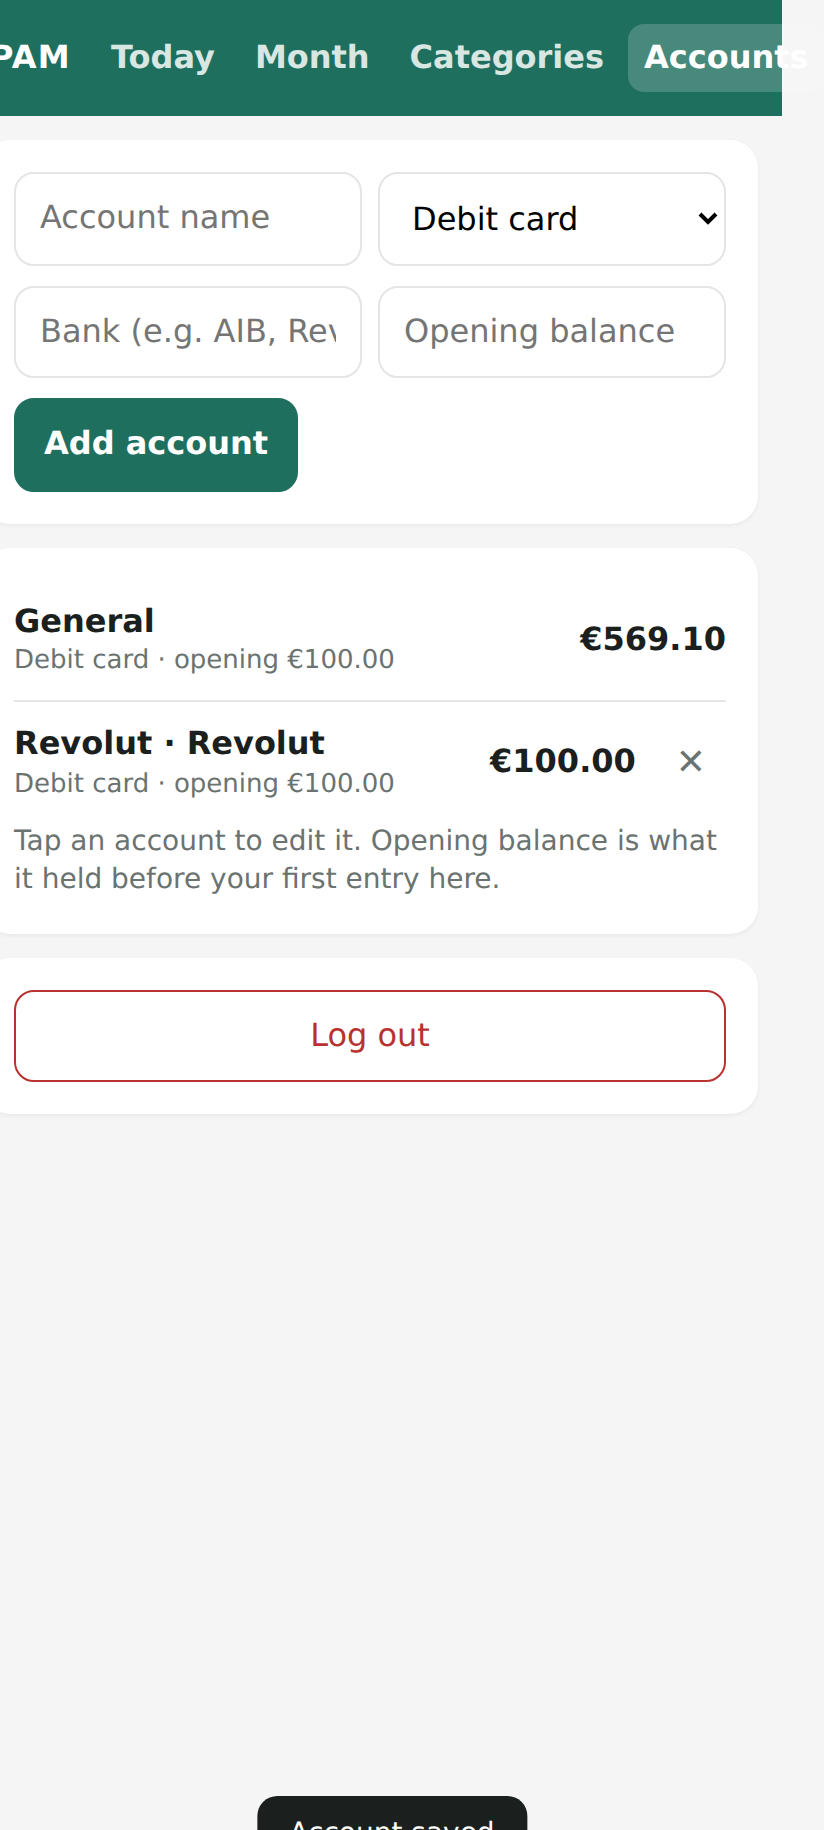
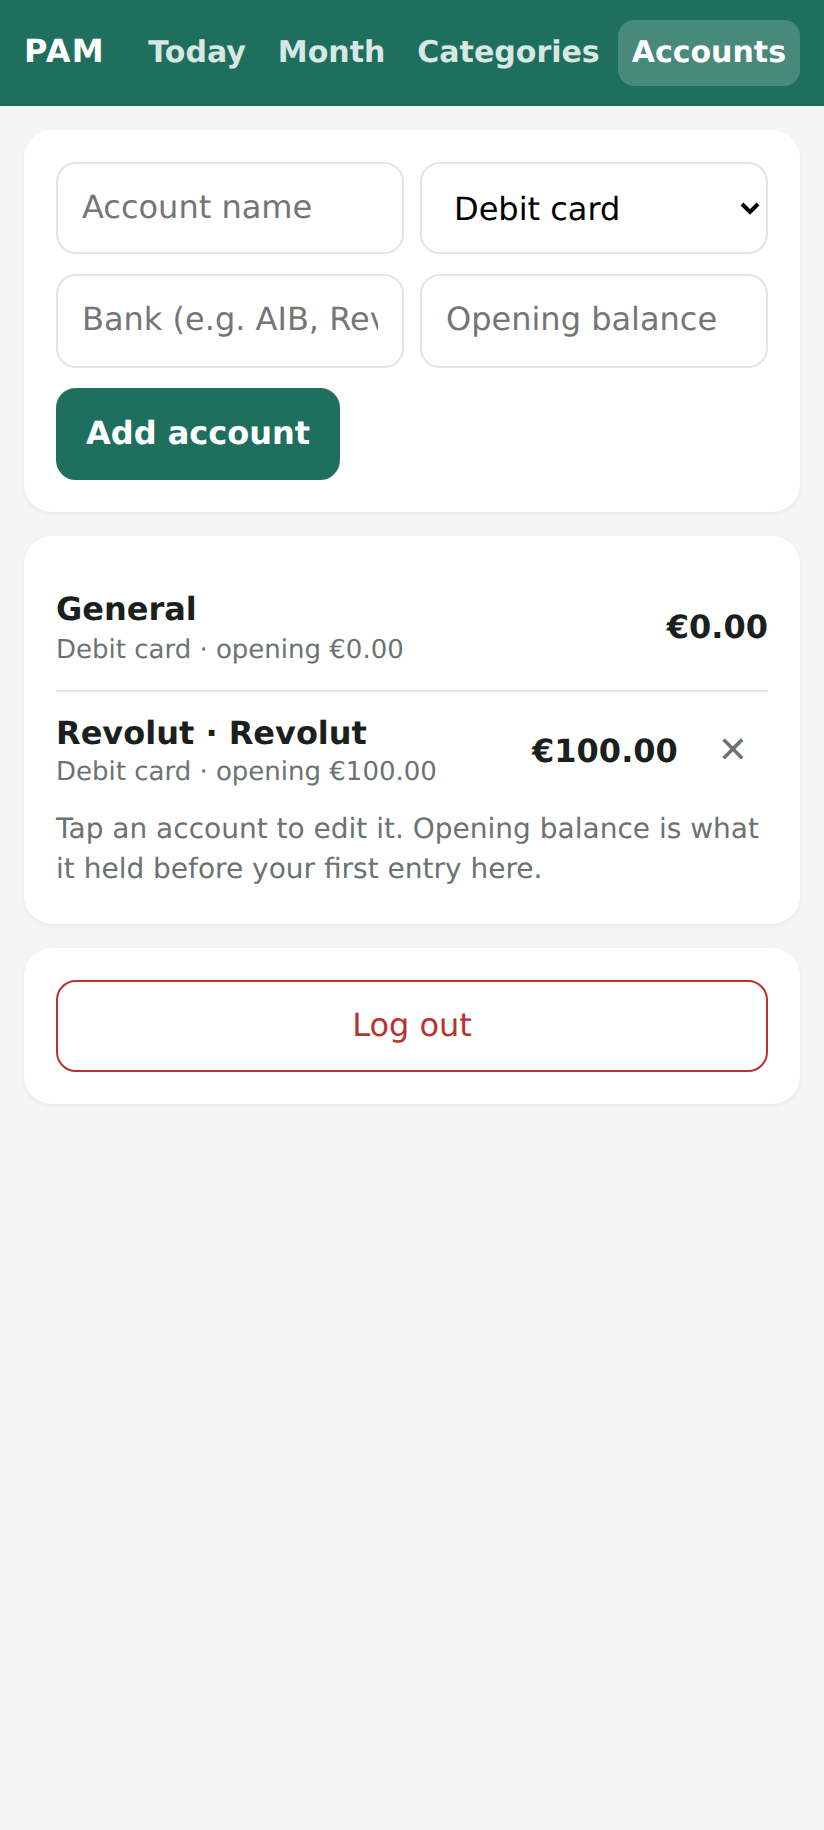
fix: keep the top bar inside the viewport with four tabs
Let the tab strip shrink and scroll within the bar instead of pushing
the page wider than the phone screen.

Claude-Session: https://claude.ai/code/session_01RQk58Ns6aaHKPqYvFcDsTA

diff --git a/app/static/styles.css b/app/static/styles.css
@@ -11,10 +11,13 @@
 * { box-sizing: border-box; }
 html, body { margin: 0; background: var(--bg); color: var(--ink); font: 16px/1.4 system-ui, -apple-system, "Segoe UI", Roboto, sans-serif; }
 body { padding-bottom: env(safe-area-inset-bottom); }
-.topbar { position: sticky; top: 0; z-index: 2; display: flex; align-items: center; gap: 12px; padding: 12px 16px; background: var(--accent); color: #fff; padding-top: calc(12px + env(safe-area-inset-top)); }
-.brand { font-weight: 700; letter-spacing: .04em; }
-.tabs { display: flex; gap: 4px; margin-left: auto; }
-.tabs button { background: transparent; color: #d8e7e2; border: 0; padding: 6px 8px; border-radius: 8px; font-weight: 600; }
+.topbar { position: sticky; top: 0; z-index: 2; display: flex; align-items: center; gap: 10px; padding: 10px 12px; background: var(--accent); color: #fff; padding-top: calc(10px + env(safe-area-inset-top)); overflow: hidden; }
+.brand { font-weight: 700; letter-spacing: .04em; flex: 0 0 auto; }
+/* The tab strip takes whatever width is left and scrolls inside itself, so
+   the page itself never scrolls sideways on narrow phones. */
+.tabs { display: flex; gap: 2px; margin-left: auto; flex: 1 1 auto; min-width: 0; overflow-x: auto; justify-content: flex-end; scrollbar-width: none; }
+.tabs::-webkit-scrollbar { display: none; }
+.tabs button { background: transparent; color: #d8e7e2; border: 0; padding: 6px 7px; border-radius: 8px; font-weight: 600; font-size: 15px; }
 .tabs button.active { background: rgba(255,255,255,.18); color: #fff; }
 .tabs button { white-space: nowrap; }
 .arrow { flex: 0 0 auto; align-self: center; color: var(--muted); }
